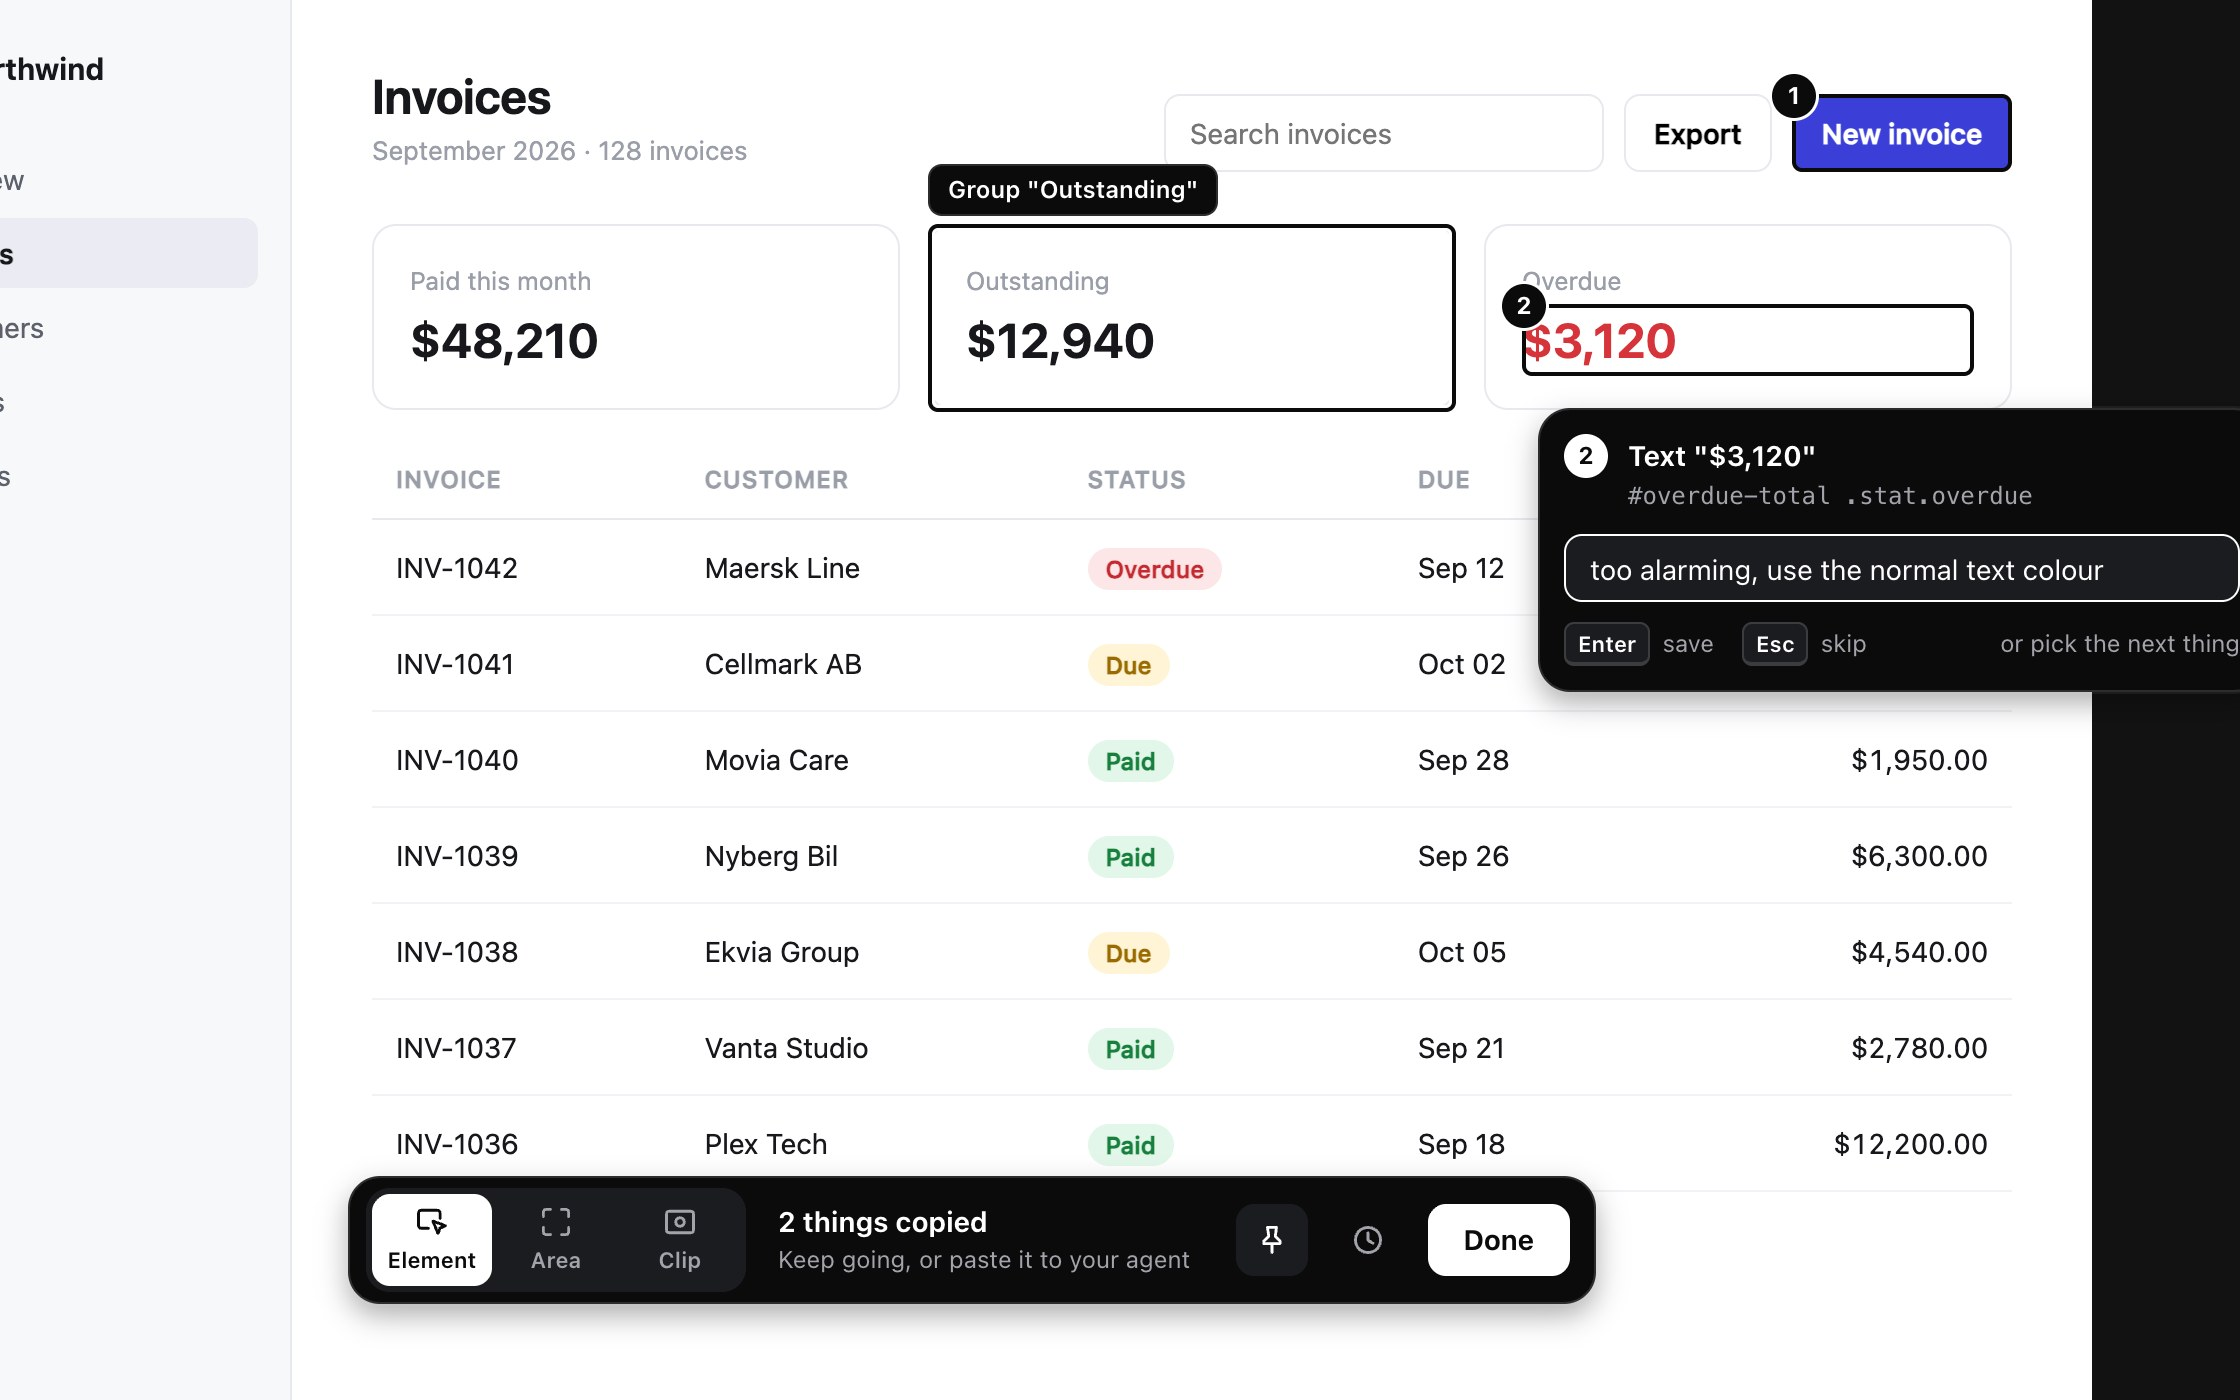
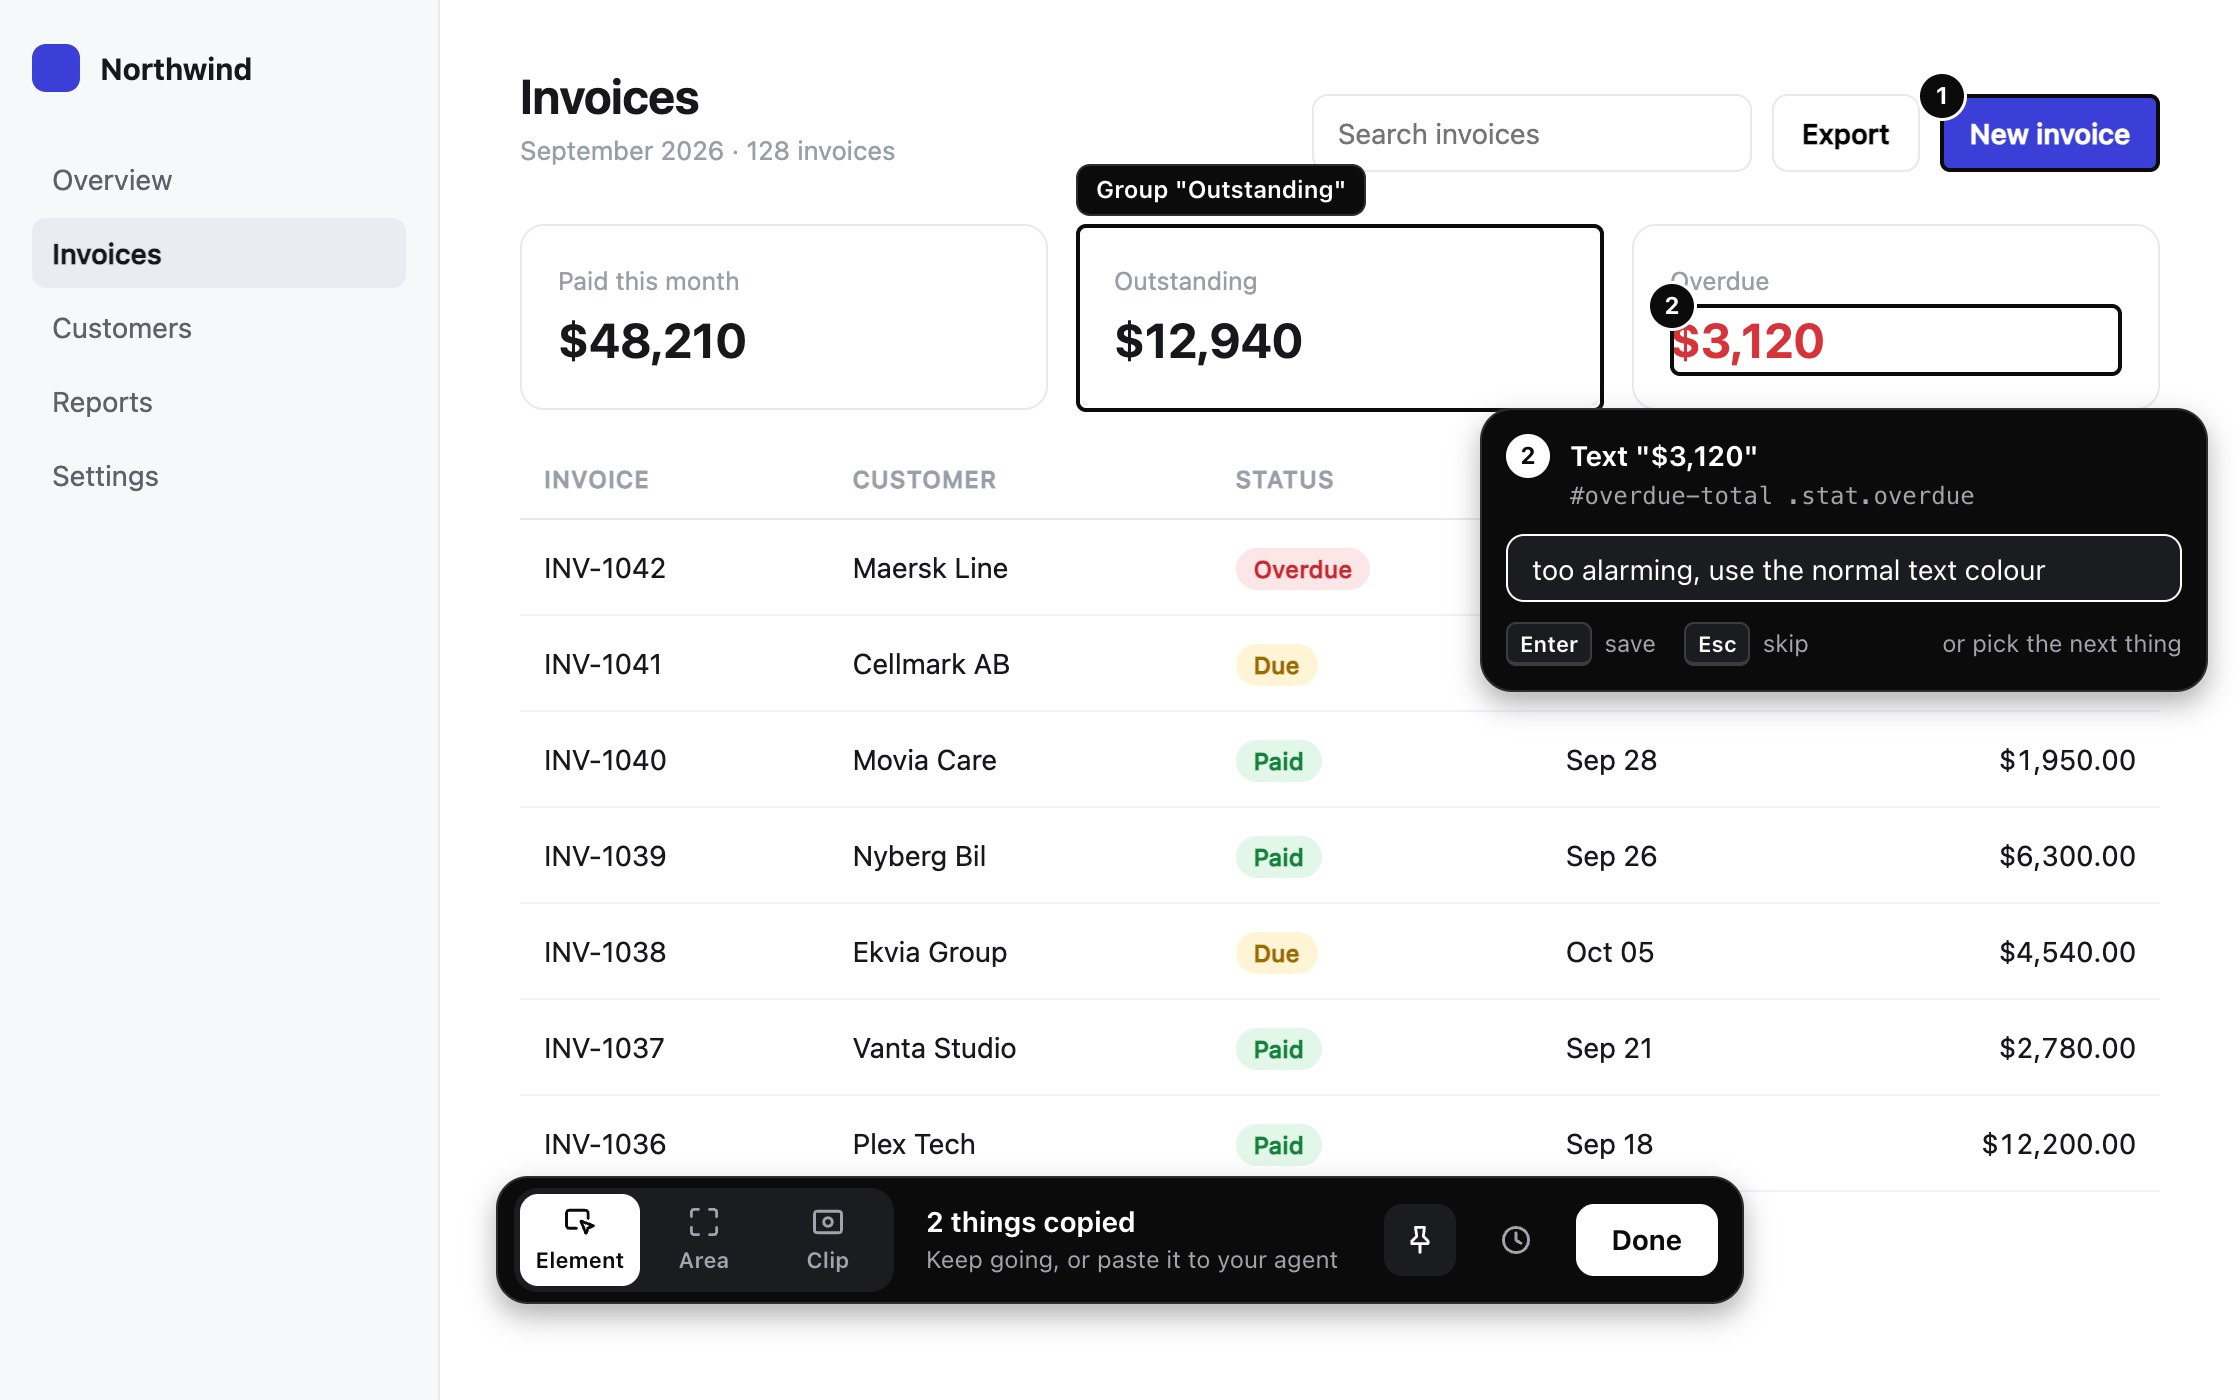
Lab: keep the comment box on screen

diff --git a/desktop/lab/lab.tsx b/desktop/lab/lab.tsx
@@ -79,7 +79,8 @@ frame.addEventListener("load", () => {
   };
   createRoot(document.getElementById("overlay") as HTMLElement).render(<Overlay />);
   mount("bar", (innerWidth - BAR.w) / 2, innerHeight - BAR.h - 40, BAR.w, BAR.h, <Bar />);
-  mount("note", overdue.x, overdue.y + overdue.height + 8, NOTE.w, NOTE.h, <Note />);
+  // Kept on screen, the way the app clamps it to the display.
+  mount("note", Math.min(overdue.x, innerWidth - NOTE.w - 8), overdue.y + overdue.height + 8, NOTE.w, NOTE.h, <Note />);
   if (state === "history") {
     // A window of its own in the app; here a panel in the middle of the page.
     const panel = document.getElementById("history") as HTMLElement;
